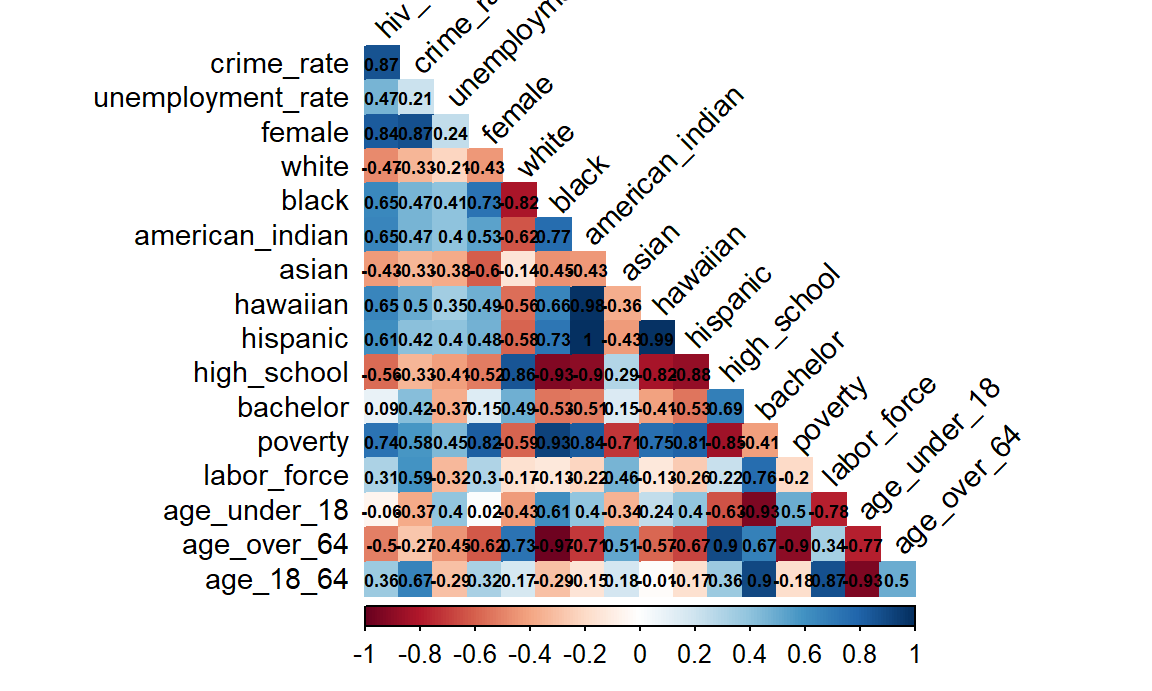
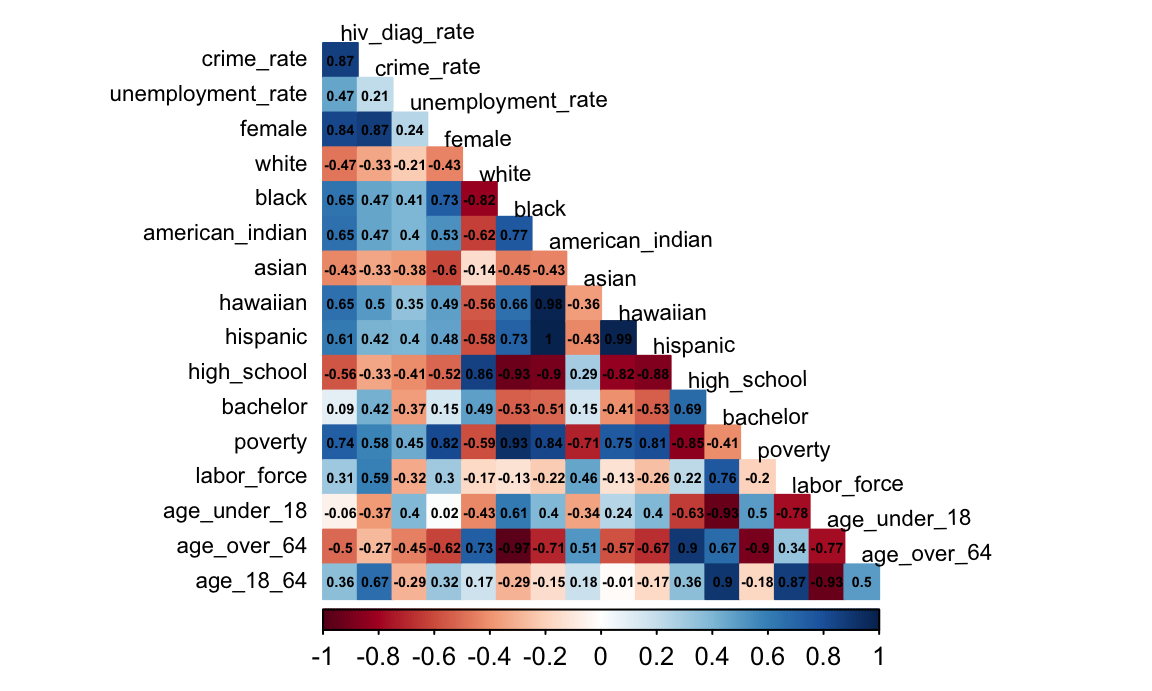
edit model building

diff --git a/model_building.html b/model_building.html
@@ -26,8 +26,6 @@
 <script src="site_libs/navigation-1.1/codefolding.js"></script>
 <link href="site_libs/highlightjs-9.12.0/default.css" rel="stylesheet" />
 <script src="site_libs/highlightjs-9.12.0/highlight.js"></script>
-<link href="site_libs/anchor-sections-1.0/anchor-sections.css" rel="stylesheet" />
-<script src="site_libs/anchor-sections-1.0/anchor-sections.js"></script>
 <link href="site_libs/font-awesome-5.1.0/css/all.css" rel="stylesheet" />
 <link href="site_libs/font-awesome-5.1.0/css/v4-shims.css" rel="stylesheet" />
 
@@ -38,7 +36,7 @@
   div.column{display: inline-block; vertical-align: top; width: 50%;}
   div.hanging-indent{margin-left: 1.5em; text-indent: -1.5em;}
   ul.task-list{list-style: none;}
-    </style>
+      </style>
 
 <style type="text/css">code{white-space: pre;}</style>
 <style type="text/css">
@@ -423,12 +421,9 @@ div.tocify {
 library(plotly)
 library(corrplot)
 library(geepack)
-<<<<<<< HEAD
 library(fastDummies)
-=======
 library(modelr)
 library(mgcv)
->>>>>>> 2813dc3087b94a0bf6d04a6b2185e64248d74319
 
 knitr::opts_chunk$set(
   fig.width = 6,
@@ -458,11 +453,7 @@ scale_fill_discrete = scale_fill_viridis_d</code></pre>
        title = &quot;Distribution of HIV Diagnoses Rate&quot;) +
   theme(plot.title = element_text(hjust = 0.5))</code></pre>
 <p><img src="model_building_files/figure-html/unnamed-chunk-3-1.png" width="90%" /></p>
-</div>
-<<<<<<< HEAD
-<div id="relevant-predictors" class="section level2">
-<h2>Relevant predictors</h2>
-<p>The data we are using includes the following variables:</p>
+<p><br> ## Relevant predictors The data we are using includes the following variables:</p>
 <ul>
 <li><code>year</code> The year of HIV diagnosis measured.</li>
 <li><code>hiv_diag_rate</code> The HIV diagnosis rate.</li>
@@ -484,8 +475,8 @@ scale_fill_discrete = scale_fill_viridis_d</code></pre>
 <li><code>age_over_64</code> The percentage of population over 64 years.</li>
 <li><code>age_18_64</code> The percentage of population between 18 and 64 years.</li>
 </ul>
+<p><br></p>
 </div>
-=======
 <div id="correlation-matrx" class="section level2">
 <h2>Correlation Matrx</h2>
 <pre class="r"><code>rate_complete_df %&gt;% 
@@ -496,11 +487,11 @@ scale_fill_discrete = scale_fill_viridis_d</code></pre>
            method = &quot;color&quot;, 
            addCoef.col = &quot;black&quot;, 
            diag = FALSE, 
-           number.cex = .55,
+           number.cex = .45,
            insig = &quot;blank&quot; ,
            tl.col = &quot;black&quot;,
-           tl.cex = .9,
-           tl.srt = 45
+           tl.cex = .7,
+           tl.srt = 1
            )</code></pre>
 <p><img src="model_building_files/figure-html/unnamed-chunk-4-1.png" width="90%" /></p>
 <p>We found that several predictors are highly correlated with each other, which should not be included in the model simultaneously, such as:</p>
@@ -511,6 +502,7 @@ scale_fill_discrete = scale_fill_viridis_d</code></pre>
 <li><code>high_school</code> and <code>black</code> (r=-0.93)</li>
 <li><code>age_over_64</code> and <code>black</code> (r=-0.97)</li>
 </ul>
+<p><br></p>
 </div>
 <div id="summary-of-models" class="section level2">
 <h2>Summary of Models</h2>
@@ -559,41 +551,6 @@ hyp_model_2 =
          data = rate_df,
          family = poisson, 
          corstr = &quot;ar1&quot;)</code></pre>
-<pre><code>## Warning in dpois(y, mu, log = TRUE): non-integer x = 3.855295</code></pre>
-<pre><code>## Warning in dpois(y, mu, log = TRUE): non-integer x = 2.822693</code></pre>
-<pre><code>## Warning in dpois(y, mu, log = TRUE): non-integer x = 4.357222</code></pre>
-<pre><code>## Warning in dpois(y, mu, log = TRUE): non-integer x = 2.048664</code></pre>
-<pre><code>## Warning in dpois(y, mu, log = TRUE): non-integer x = 1.130715</code></pre>
-<pre><code>## Warning in dpois(y, mu, log = TRUE): non-integer x = 3.552070</code></pre>
-<pre><code>## Warning in dpois(y, mu, log = TRUE): non-integer x = 2.878588</code></pre>
-<pre><code>## Warning in dpois(y, mu, log = TRUE): non-integer x = 3.871685</code></pre>
-<pre><code>## Warning in dpois(y, mu, log = TRUE): non-integer x = 2.012801</code></pre>
-<pre><code>## Warning in dpois(y, mu, log = TRUE): non-integer x = 1.216052</code></pre>
-<pre><code>## Warning in dpois(y, mu, log = TRUE): non-integer x = 3.544850</code></pre>
-<pre><code>## Warning in dpois(y, mu, log = TRUE): non-integer x = 2.531241</code></pre>
-<pre><code>## Warning in dpois(y, mu, log = TRUE): non-integer x = 3.436593</code></pre>
-<pre><code>## Warning in dpois(y, mu, log = TRUE): non-integer x = 1.896247</code></pre>
-<pre><code>## Warning in dpois(y, mu, log = TRUE): non-integer x = 1.301389</code></pre>
-<pre><code>## Warning in dpois(y, mu, log = TRUE): non-integer x = 3.588168</code></pre>
-<pre><code>## Warning in dpois(y, mu, log = TRUE): non-integer x = 2.287699</code></pre>
-<pre><code>## Warning in dpois(y, mu, log = TRUE): non-integer x = 2.673606</code></pre>
-<pre><code>## Warning in dpois(y, mu, log = TRUE): non-integer x = 1.829004</code></pre>
-<pre><code>## Warning in dpois(y, mu, log = TRUE): non-integer x = 1.642737</code></pre>
-<pre><code>## Warning in dpois(y, mu, log = TRUE): non-integer x = 3.270503</code></pre>
-<pre><code>## Warning in dpois(y, mu, log = TRUE): non-integer x = 2.463369</code></pre>
-<pre><code>## Warning in dpois(y, mu, log = TRUE): non-integer x = 2.433991</code></pre>
-<pre><code>## Warning in dpois(y, mu, log = TRUE): non-integer x = 1.761761</code></pre>
-<pre><code>## Warning in dpois(y, mu, log = TRUE): non-integer x = 0.853370</code></pre>
-<pre><code>## Warning in dpois(y, mu, log = TRUE): non-integer x = 3.176648</code></pre>
-<pre><code>## Warning in dpois(y, mu, log = TRUE): non-integer x = 2.227812</code></pre>
-<pre><code>## Warning in dpois(y, mu, log = TRUE): non-integer x = 2.364628</code></pre>
-<pre><code>## Warning in dpois(y, mu, log = TRUE): non-integer x = 1.604862</code></pre>
-<pre><code>## Warning in dpois(y, mu, log = TRUE): non-integer x = 0.661362</code></pre>
-<pre><code>## Warning in dpois(y, mu, log = TRUE): non-integer x = 3.321041</code></pre>
-<pre><code>## Warning in dpois(y, mu, log = TRUE): non-integer x = 1.892442</code></pre>
-<pre><code>## Warning in dpois(y, mu, log = TRUE): non-integer x = 2.295266</code></pre>
-<pre><code>## Warning in dpois(y, mu, log = TRUE): non-integer x = 1.291062</code></pre>
-<pre><code>## Warning in dpois(y, mu, log = TRUE): non-integer x = 0.810701</code></pre>
 <pre><code>##   (Intercept) borough_catBrooklyn borough_catManhattan borough_catQueens
 ## 1           1                   0                    0                 0
 ## 2           1                   1                    0                 0
@@ -620,6 +577,7 @@ hyp_model_2 =
 <pre><code>## Error in step.spind(full_fit, data = rate_df, steps = NULL, trace = TRUE, : could not find function &quot;step.spind&quot;</code></pre>
 <pre class="r"><code>gee_stepper_o(full_fit, formula(full_fit))</code></pre>
 <pre><code>## Error in gee_stepper_o(full_fit, formula(full_fit)): could not find function &quot;gee_stepper_o&quot;</code></pre>
+<p><br></p>
 </div>
 <div id="cross-validation" class="section level2">
 <h2>Cross Validation</h2>
@@ -656,6 +614,7 @@ cv_df =
     rmse_naive = map2_dbl(naive_model, test, ~rmse(model = .x, data = .y)),
     rmse_hyp = map2_dbl(hyp_model, test, ~rmse(model = .x, data = .y)),
     rmse_hyp_2 = map2_dbl(hyp_model_2, test, ~rmse(model = .x, data = .y)))</code></pre>
+<p><br></p>
 <p><strong>Compare models using cross-validated prediction error</strong></p>
 <pre class="r"><code>cv_df %&gt;%
   select(starts_with(&quot;rmse&quot;)) %&gt;% 
@@ -689,18 +648,19 @@ cv_df =
 <tbody>
 <tr class="odd">
 <td align="left">hyp</td>
-<td align="right">1.671156</td>
+<td align="right">1.703789</td>
 </tr>
 <tr class="even">
 <td align="left">hyp_2</td>
-<td align="right">1.669137</td>
+<td align="right">1.707904</td>
 </tr>
 <tr class="odd">
 <td align="left">naive</td>
-<td align="right">1.676730</td>
+<td align="right">1.723145</td>
 </tr>
 </tbody>
 </table>
+<p><br></p>
 </div>
 <div id="select-a-model" class="section level2">
 <h2>Select a Model</h2>
@@ -722,7 +682,7 @@ cv_df =
 <td align="left">(Intercept)</td>
 <td align="right">238.5589662</td>
 <td align="right">3.18e-05</td>
-<td align="right">5.629132e+13</td>
+<td align="right">5.629125e+13</td>
 <td align="right">0</td>
 </tr>
 <tr class="even">
@@ -736,7 +696,7 @@ cv_df =
 <td align="left">borough_catManhattan</td>
 <td align="right">-0.2988790</td>
 <td align="right">1.00e-07</td>
-<td align="right">1.600613e+13</td>
+<td align="right">1.600614e+13</td>
 <td align="right">0</td>
 </tr>
 <tr class="even">
@@ -757,7 +717,7 @@ cv_df =
 <td align="left">year</td>
 <td align="right">-0.1175101</td>
 <td align="right">0.00e+00</td>
-<td align="right">5.776269e+13</td>
+<td align="right">5.776262e+13</td>
 <td align="right">0</td>
 </tr>
 <tr class="odd">
@@ -771,13 +731,12 @@ cv_df =
 <td align="left">unemployment_rate</td>
 <td align="right">-0.0580295</td>
 <td align="right">0.00e+00</td>
-<td align="right">1.077676e+14</td>
+<td align="right">1.077674e+14</td>
 <td align="right">0</td>
 </tr>
 </tbody>
 </table>
 </div>
->>>>>>> 2813dc3087b94a0bf6d04a6b2185e64248d74319
 
 
 
@@ -790,7 +749,7 @@ cv_df =
 
 // add bootstrap table styles to pandoc tables
 function bootstrapStylePandocTables() {
-  $('tr.odd').parent('tbody').parent('table').addClass('table table-condensed');
+  $('tr.header').parent('thead').parent('table').addClass('table table-condensed');
 }
 $(document).ready(function () {
   bootstrapStylePandocTables();
